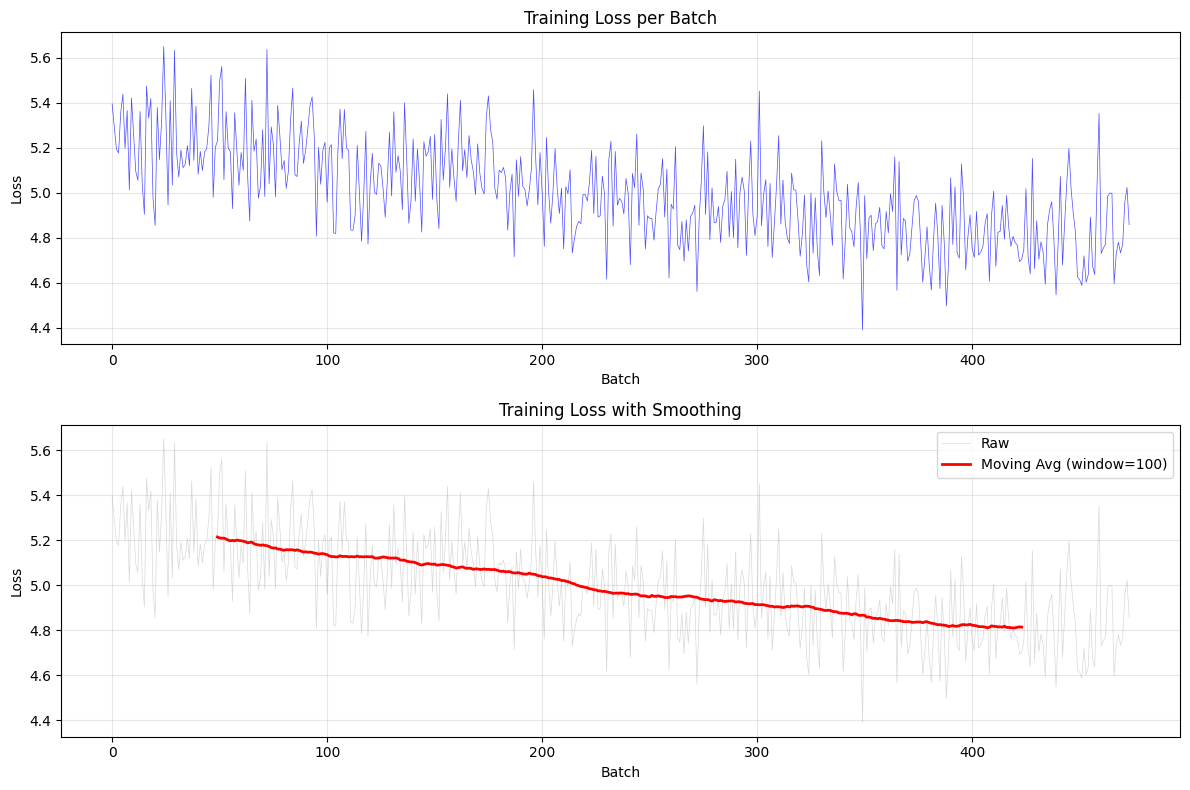
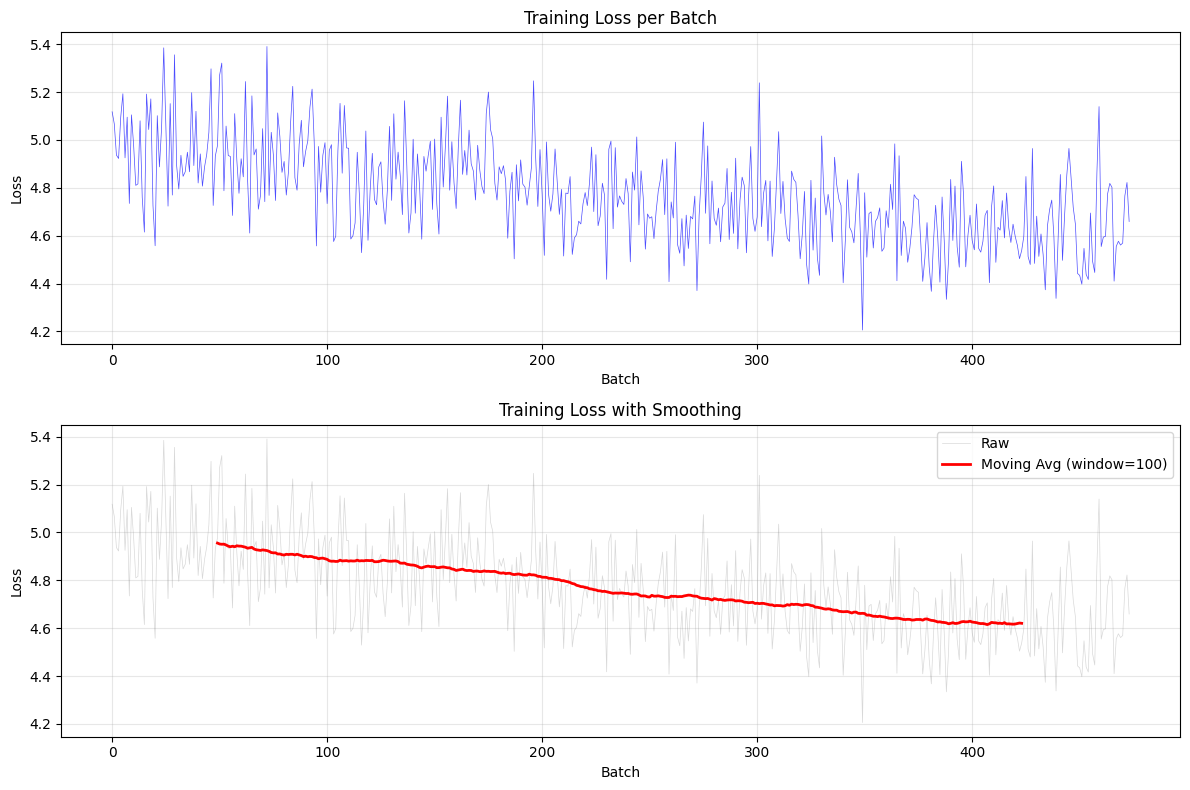
Fixes and Clean Up

diff --git a/examples/language_modelling/pre-train/enhanced_wave_test.py b/examples/language_modelling/pre-train/enhanced_wave_test.py
@@ -13,6 +13,7 @@ import torch.multiprocessing as mp
 from tokenizers import processors, Tokenizer
 from torch.nn.parallel import DistributedDataParallel as DDP
 from matplotlib import pyplot as plt
+
 from wave_transformer.language_modelling.text_datasets import TextDatasetPaddedSimple
 
 import wandb
@@ -22,10 +23,10 @@ from torch.utils.data import DataLoader, get_worker_info, IterableDataset
 
 from tqdm import tqdm
 
-from wave_transformer.core.transformer import WaveTransformer
+from wave_transformer.core.transformer import WaveTransformer, ModernTransformer, WaveTransformerMKII
 from wave_transformer.language_modelling.streaming_dataset import MultiBoundedStreamingDataset, BoundedStreamingDataset
 from wave_transformer.language_modelling.token_decoder import WaveToTokenDecoder
-from wave_transformer.language_modelling.token_encoder import TokenToWaveEncoder, TokenToWaveEncoderSlim
+from wave_transformer.language_modelling.token_encoder import TokenToWaveEncoder
 from wave_transformer.language_modelling.train_utils import (
     prepare_autoregressive_batch,
     compute_language_modeling_loss,
@@ -85,6 +86,7 @@ class DistributedIterableWrapper(torch.utils.data.IterableDataset):
 
     def __len__(self):
         return self.max_entries
+
     def __iter__(self):
         # Each GPU skips samples based on its rank
         for i, sample in enumerate(self.dataset):
@@ -148,7 +150,7 @@ def train_epoch(result_dir, epoch, model, dataloader, optimizer, scheduler, pad_
         with torch.autocast("cuda", dtype=torch.bfloat16):
             logits = model({"token_ids": inputs}, attention_mask=input_mask)
             loss = compute_language_modeling_loss(logits, targets, pad_token_id)
-           
+
         if not torch.isfinite(loss):
             print(
                 f"[{datetime.now().strftime('%H:%M:%S')}] Rank {rank}: Loss is NaN/Inf at batch {batch_idx}, skipping")
@@ -219,9 +221,6 @@ def train_epoch(result_dir, epoch, model, dataloader, optimizer, scheduler, pad_
                 'lr': f"{current_lr:.2e}",
                 'step': global_step[0]
             })
-
-
-
 
     print(f"[{datetime.now().strftime('%H:%M:%S')}] Rank {rank}: Dataloader exhausted after {batch_count} batches")
     print(f"[{datetime.now().strftime('%H:%M:%S')}] Rank {rank}: Completed {batch_count} batches total")
@@ -383,20 +382,19 @@ def train_language_model_distributed(rank, world_size):
     # Model Parameters
     seq_len = 512
     d_model = 512
-    num_layers = 64
+    num_layers = 12
     num_heads = 8
     dropout = 0.1
-    num_harmonics = 32
+    num_harmonics = 64
 
     # Hyperparameters - adjust batch size per GPU
     epochs = 5
-    batch_size = 16 if torch.cuda.is_available() else 4
+    batch_size = 8 if torch.cuda.is_available() else 4
     eval_batch_size = 1
-    accumulation_steps = 1
+    accumulation_steps = 2
     base_lr = 3e-4
     final_lr = 3e-5
     warmup_pct = 0.1
-
 
     # Initialize wandb (only on rank 0)
     use_wandb = True
@@ -451,7 +449,6 @@ def train_language_model_distributed(rank, world_size):
     train_tokenizer.enable_padding(pad_id=pad_token_id, pad_token="<|pad|>", length=seq_len)
     train_tokenizer.enable_truncation(max_length=seq_len - 2)
 
-
     vocab_size = train_tokenizer.get_vocab_size()
 
     def load_dao_teachings():
@@ -473,7 +470,7 @@ def train_language_model_distributed(rank, world_size):
     avg_train_length = 0
     max_train_length = -1
     min_train_length = 10000
-    entries_per_dataset = len(train_corpus)
+
     cleaned_corpus = []
     for train_text in train_corpus:
         train_length = len(tokenizer.encode(train_text).ids)
@@ -516,43 +513,19 @@ def train_language_model_distributed(rank, world_size):
     if rank == 0:
         print("Dataloaders created...")
 
-    # Create model components
-    wave_encoder = TokenToWaveEncoderSlim(
-        vocab_size=vocab_size,
-        num_harmonics=num_harmonics,
-        d_model=d_model,
-        hidden_mult=2,
-        num_heads=num_heads,
-        num_heads_kv=num_heads,
-        num_layers=3,
-        shared_projector=False
-    )
-
-    wave_decoder = WaveToTokenDecoder(
-        vocab_size=vocab_size,
-        num_harmonics=num_harmonics,
-        d_model=d_model,
-        hidden_mult=1.75,
-        num_heads=8,
-        num_heads_kv=8,
-        num_layers=3,
-        low_rank_output=512
-    )
 
     if rank == 0:
         print("Creating model...")
     dtype = torch.float32
-
-    wave_transformer_model = WaveTransformer(
-        wave_encoder=wave_encoder,
-        wave_decoder=wave_decoder,
+    wave_encoder = TokenToWaveEncoder(
+        vocab_size=vocab_size,
         num_harmonics=num_harmonics,
-        transformer_num_heads=num_heads,
-        transformer_heads_kv=num_heads,
-        transformer_num_layers=num_layers,
-        transformer_d_ff_multi=4,
-        dropout=dropout
-    ).to(device, dtype=dtype)
+        num_layers=3,
+        d_model=d_model,
+        dropout=dropout,
+        max_seq_len=seq_len
+    )
+    wave_transformer_model = WaveTransformerMKII(wave_encoder=wave_encoder, vocab_size=vocab_size, num_harmonics=num_harmonics, transformer_num_layers=num_layers, transformer_num_heads=num_heads, transformer_heads_kv=num_heads).to(device, dtype=dtype)
 
     # Wrap model with DDP if using multiple GPUs
     if use_ddp:

diff --git a/examples/language_modelling/inference.py b/examples/language_modelling/inference.py
@@ -6,13 +6,13 @@ from tokenizers.processors import TemplateProcessing
 
 from wave_transformer.core.transformer import WaveTransformer
 from wave_transformer.language_modelling.token_decoder import WaveToTokenDecoder
-from wave_transformer.language_modelling.token_encoder import TokenToWaveEncoder
+from wave_transformer.language_modelling.token_encoder import TokenToWaveEncoder, TokenToWaveEncoderSlim
 from wave_transformer.language_modelling.train_utils import generate_text, load_model_bundle, test_generation
 
 # Load model
 model = WaveTransformer.load(
-    "./results_fineweb/epoch_0_batch_24999",
-    encoder_cls=TokenToWaveEncoder,
+    "./results_wikitext_v1_raw/epoch_0_batch_9999",
+    encoder_cls=TokenToWaveEncoderSlim,
     decoder_cls=WaveToTokenDecoder,
     map_location=None
 )

diff --git a/src/wave_transformer/huggingface/hf_wave_transformer.py b/src/wave_transformer/huggingface/hf_wave_transformer.py
@@ -2,18 +2,16 @@
 Hugging Face compatible WaveTransformer implementation
 """
 
-import torch
 import torch.nn as nn
-import numpy as np
-from typing import Optional, Tuple, Union
-from dataclasses import dataclass
+
+from typing import Optional
 
 from transformers import PreTrainedModel, PretrainedConfig
 from transformers.modeling_outputs import CausalLMOutputWithCrossAttentions
 from transformers.generation import GenerationMixin
 
 from wave_transformer.core.transformer import ParallelBlock, RMSNorm
-from wave_transformer.language_modelling.token_encoder import TokenToWaveEncoder, TokenToWaveEncoderSlim
+from wave_transformer.language_modelling.token_encoder import TokenToWaveEncoderSlim
 from wave_transformer.language_modelling.token_decoder import WaveToTokenDecoder
 
 

diff --git a/src/wave_transformer/language_modelling/token_encoder.py b/src/wave_transformer/language_modelling/token_encoder.py
@@ -165,7 +165,7 @@ class TokenToWaveEncoderSlim(nn.Module):
         x = self.embedding(token_ids)
 
         # Attention
-        attn_out = self.self_attention(x, False, attention_mask)
+        attn_out = self.self_attention(x, True, attention_mask)
         x = x + attn_out
 
         # Hidden expansion
